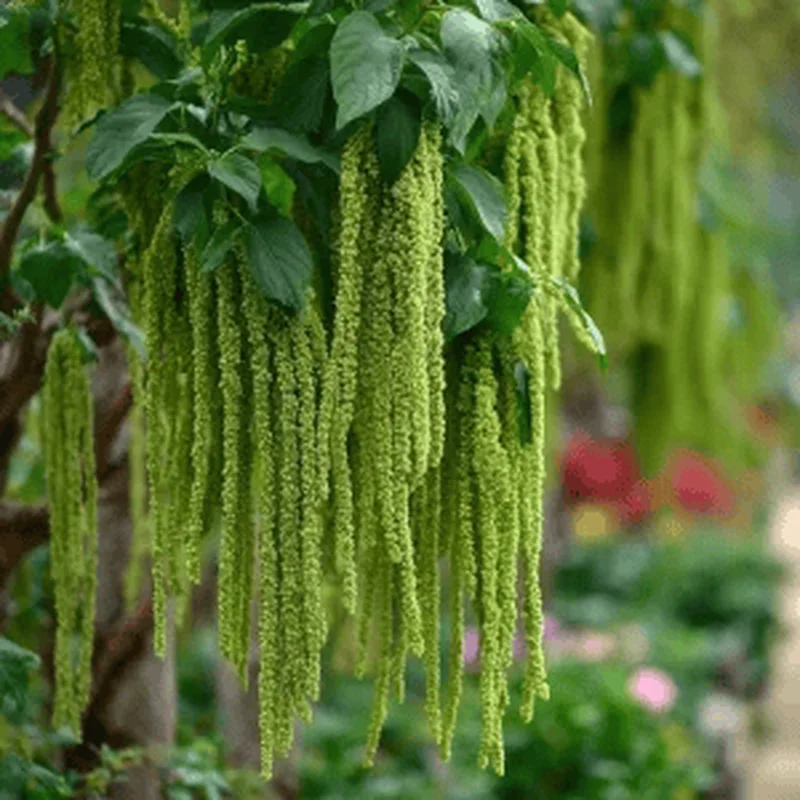
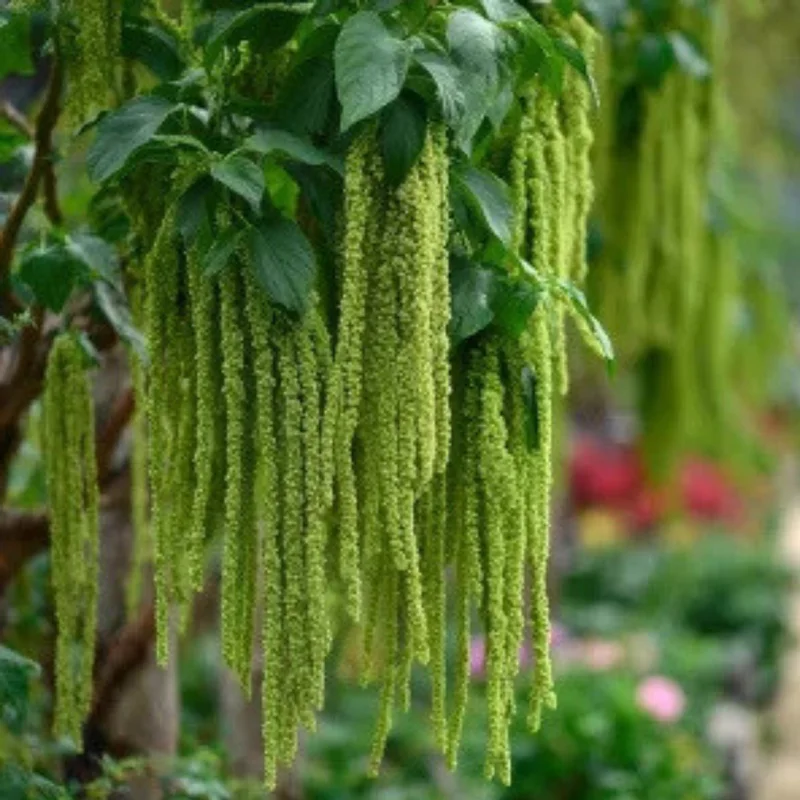
Flora: new green amaranthus plant + styled photos

diff --git a/brief/the-flora.html b/brief/the-flora.html
@@ -153,7 +153,7 @@
           <div class="flora-card">
             <div class="flora-card__media">
               <div class="flora-card__img flora-card__img--plant is-on" style="background-image:url('../assets/img/flora/green-amaranthus-plant.webp')" data-plant></div>
-              <div class="flora-card__img flora-card__img--styled" style="background-image:url('https://i.pinimg.com/1200x/ba/d4/b7/bad4b7490cc9afd3f1f0c2db06eaad5b.jpg')" data-styled></div>
+              <div class="flora-card__img flora-card__img--styled" style="background-image:url('../assets/img/flora/green-amaranthus-styled.webp')" data-styled></div>
               <div class="flora-card__toggle">
                 <button class="flora-card__tab is-on" data-show="plant">Plant</button>
                 <button class="flora-card__tab" data-show="styled">Styled</button>
